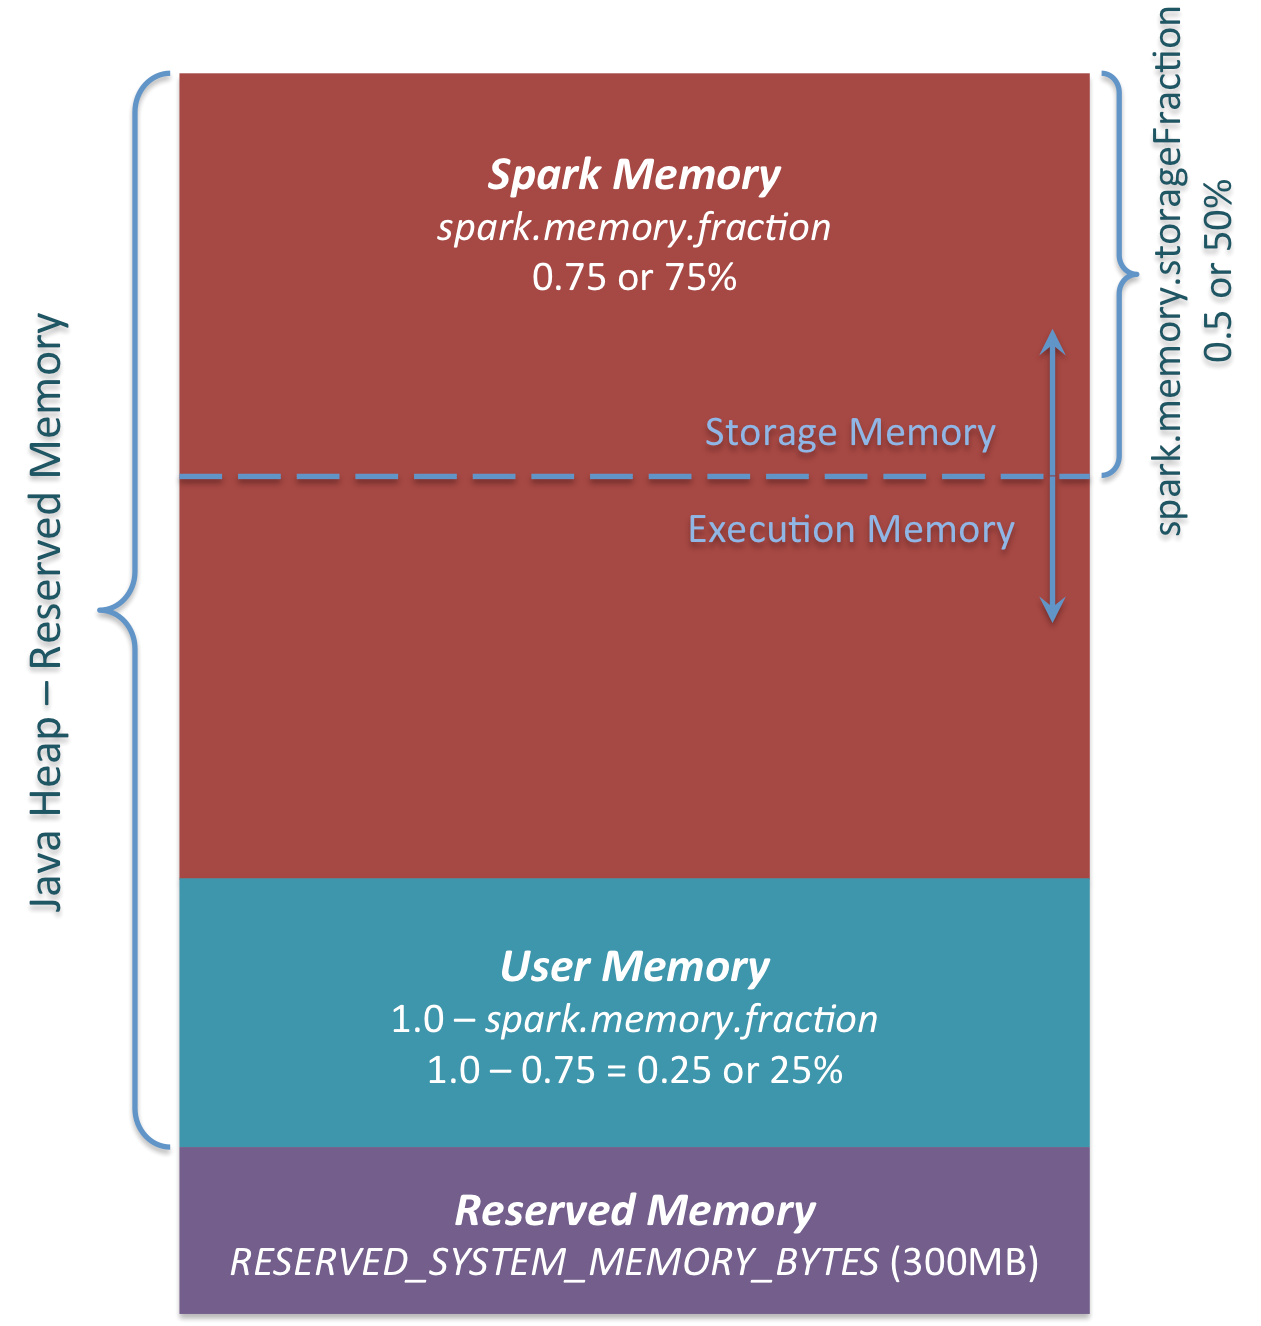
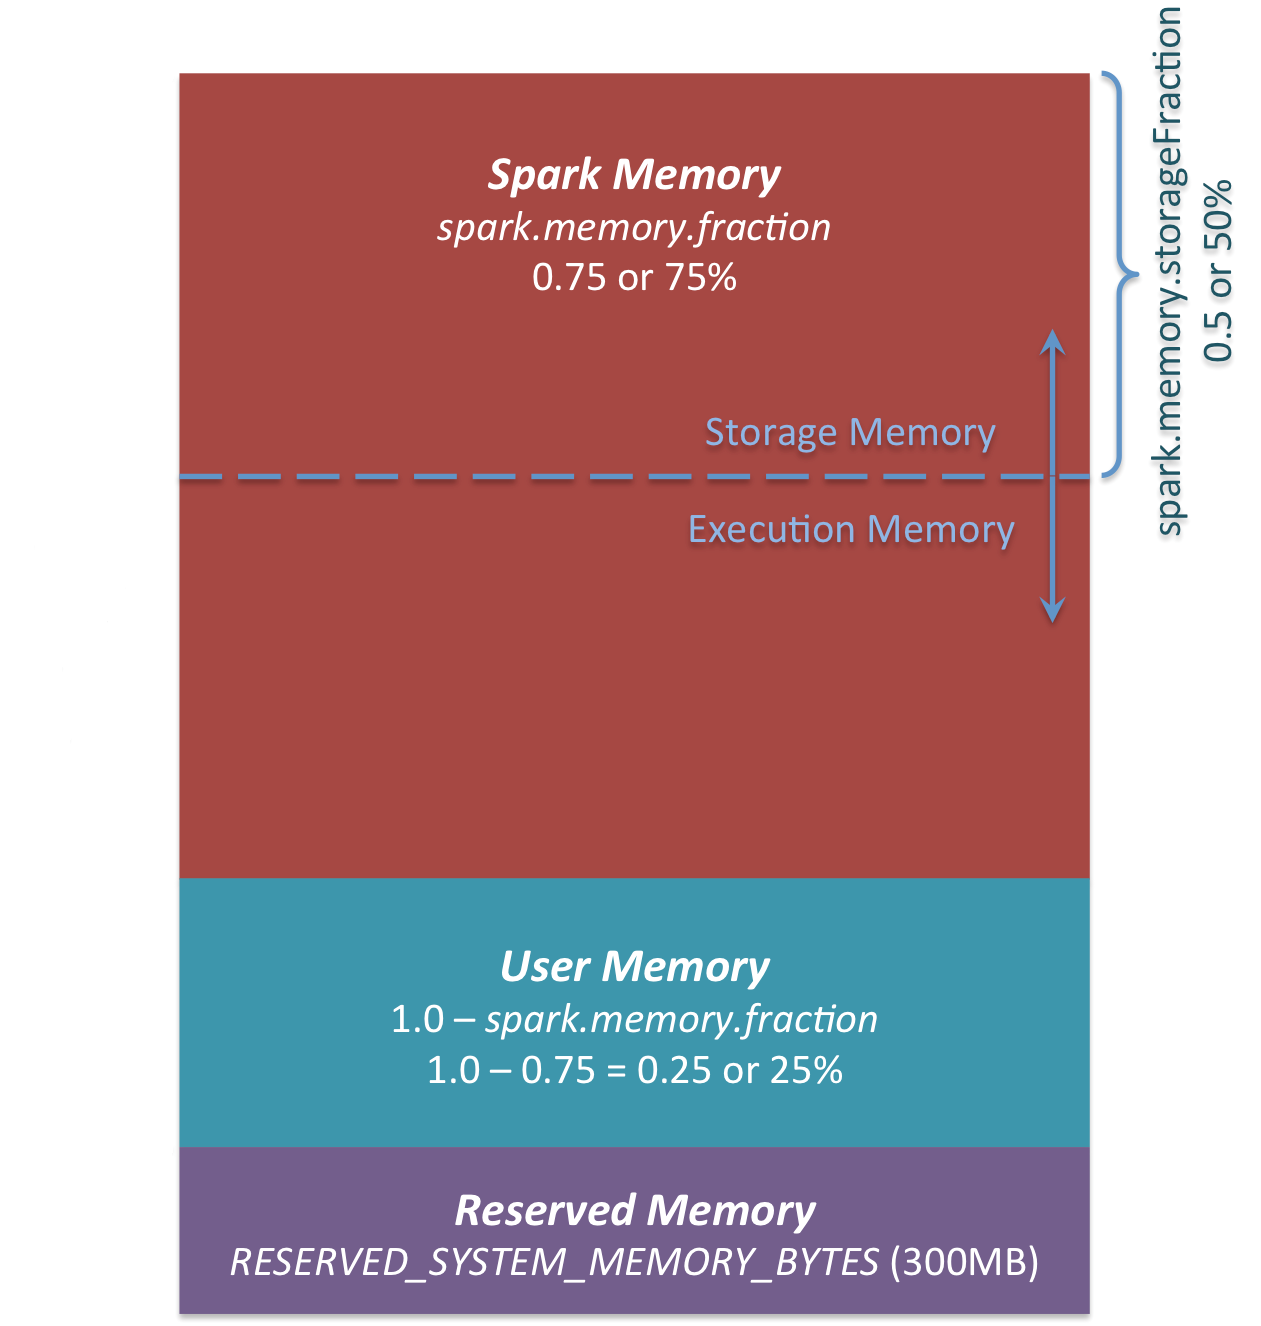
Memory Manager in Tungtsen

Changed region(s): [[0.0, 0.0618, 0.1237, 0.8658]]

diff --git a/analysis/memory_manager.md b/analysis/memory_manager.md
@@ -2,20 +2,298 @@
 
 Spark中的内存管理最近几个版本一直有变化。Spark1.6中将过去的内存管理全部放在了`StaticMemoryManager`中，其名字起得很好，因为过去的的内存
 分配确实是静态的(详情见[Spark Architecture][1])，即各个区块的大小是固定的。可以通过配置`spark.memory.useLegacyMode`为`true`来使用。自从1.6
-版本开始就着力推出新的内存管理，这是[Tungtsen][2]中重要的一个目标。实际上1.6只是一个过渡，其和2.0.0的内存管理还是有一定的区别。[1.6的内存管理
+版本开始就着力推出新的内存管理，这是[Tungtsen][2]中重要的一个目标。实际上1.6只是一个过渡，其和2.0.0的内存管理还是有一定的区别（在off-heap方面）。[1.6的内存管理
 见][3]。
 
-##UnifiedMemoryManager介绍
+##UnifiedMemoryManager Overview
 
-新的内存管理策略在有这个类进行负责，这里借用[Alexey Grishchenko分析Spark1.6的内存管理][3]的图来说明其整体的策略。
+新的内存管理策略在有这个类进行负责，这里借用[Alexey Grishchenko分析Spark1.6的内存管理][3]的图（有修改）来说明其整体的策略。
 
-![Spark内存管理][4]
+![Spark内存管理][Spark-Memory-Management-1.6.0]
 
-###Reserved Memory
+1. Reserved Memory：
+这部分空间大小是固定的（可以通过`spark.testing.reservedMemory`设置，需重新编译Spark），300MB。这意味着有300MB的内存不会用于Spark。这部分内存的目的是为了保证有
+空间来运行其他系统，并且也可以用于限制设置的内存大小。所以如果你有1GB的JVM，那么用于“运行”（概念稍有不同，稍后解释）和“存储”的内存就是_(1024MB - 300MB) * spark.memory.storageFraction_。
+此外，需要注意的是，Spark的Executor和Diver的内存大小至少要有_1.5 * Reserved Memory = 450MB_。否则就会提示通过`--driver-memory`或`--executor-memory`增加内存。
+2. User Memory：
+这部分空间是属于Spark管理的内存，其用于存储你自己的数据结构、Spark的内部元数据，以及对大而稀疏的数据规模的预测。令除去Reserved Memory之后
+的内存为`usableMemory`，那么这部分的内存大小就是_usableMemory * (1 - spark.memory.storageFraction)_。
+3. Spark Memory
+这部分内存的大小就是_usableMemory * spark.memory.storageFraction_。其共分为两部分一部分是Execution Memory和Storage Memory。虽然会设置`spark.memory.storageFraction`，
+但两者的边界并不是固定的，任何一部分内存都可以向另一部分去借内存。当然可以设置`spark.memory.offHeap.enabled`为`true`，
+并设置`spark.memory.offHeap.size`，即off-heap Memory的大小。这种配置下，在off-heap Memory上的Execution Memory和Storage Memory也一样遵循前文的策略。
 
-这部分空间大小是固定的，300MB。
+* Execution Memory表示的是用于shuffles、join、sorts和 aggregations的内存。Execution Memory当然也可以向Storage Memory借空闲内存。但是
+Execution Memory的内存__永远都不会__被腾出来用于Storage Memory存储，所以Storage Memory借不到内存的时候就会把这个块按照存储层级踢出去（踢到磁盘）。
 
+* Storage Memory表示用于persist（cache）、跨集群传递内部数据的内存，以及临时用于序列化数据“unroll”的内存。而且所有广播变量的数据
+都作为cached blocks（存储层级为`MEMORY_AND_DISK`）存储在这里。当这部分内存不足的时候，它可以去向Execution Memory申请
+__空闲__内存。但是当Execution Memory需要收回这部分内存的时候，要踢出部分cached blocks来满足Execution Memory的请求。
+
+##Spark Tungtsen的内存思路
+
+与C等直接面向内存的编程语言不同，Java业务逻辑操作内存是JVM堆内存，分配释放以及引用关系都由JVM进行管理，new返回的只是一个对象引用，而不是该对象在进程空间的绝对地址。但是由于堆内存的使用严重依赖JVM的GC器，对于大内存的使用，JavaER都想脱离JVM的管理，而自行和内存进行打交道，即堆外内存。
+
+目前Java提供了ByteBuffer.allocateDirect函数可以分配堆外内存，但是分配大小受MaxDirectMemorySize配置限制。分配堆外内存另外一个方法就是通过Unsafe的allocateMemory函数，相比前者，它完全脱离了JVM限制，与传统C中的malloc功能一致。这两个函数还有另外一个区别：后者函数返回是进程空间的实际内存地址，而前者被ByteBuffer进行包装。
+
+堆外内存使用高效，节约内存（基于字节，不需要存储繁琐的对象头等信息），堆内内存使用简单，但是对于Spark来说，很多地方会有大数组大内存的需求，内存高效是必须去追求的，它对整个程序运行性能影响极大，因此Spark也提供了堆外内存的支持，从而可以优化Spark运行性能。
+
+对于堆内存，对象的引用为对象在堆中“头指针”，熟悉对象在堆中组织方式以后（比如对象头大小），就可以通过引用+Offset偏移量的方式来操作对象的成员变量；对于堆外内存，我们直接拥有的就是指针，基于Offset可以直接内存操作。通过这种机制，Spark利用MemoryLocation，MemoryBlock来对堆内和堆外内存进行抽象，以LongArray等数据结构对外提供统一的内存入口。类似下图。
+
+![HashMap][new-memory-offheap]
+
+这种设计可以极大地提高数组、Map等操作的效率。Tungtsen中已经利用这种设计替换了之前的原生数据结构。
+
+##UnifiedMemoryManager源码分析
+
+首先分析其父类MemoryManager
+
+private[spark] abstract class MemoryManager(
+    conf: SparkConf,
+    numCores: Int,
+    onHeapStorageMemory: Long,
+    onHeapExecutionMemory: Long) extends Logging {
+
+  @GuardedBy("this")
+  protected val onHeapStorageMemoryPool = new StorageMemoryPool(this, MemoryMode.ON_HEAP)
+  @GuardedBy("this")
+  protected val offHeapStorageMemoryPool = new StorageMemoryPool(this, MemoryMode.OFF_HEAP)
+  @GuardedBy("this")
+  protected val onHeapExecutionMemoryPool = new ExecutionMemoryPool(this, MemoryMode.ON_HEAP)
+  @GuardedBy("this")
+  protected val offHeapExecutionMemoryPool = new ExecutionMemoryPool(this, MemoryMode.OFF_HEAP)
+  ...
+}
+
+上面列举出其最重要的4个成员变量，分别是on-heap和off-heap版本的StorageMemoryPool和ExecutionMemoryPool。
+
+***StorageMemoryPool
+
+先分析StorageMemoryPool。
+
+private[memory] class StorageMemoryPool(
+    lock: Object,
+    memoryMode: MemoryMode
+  ) extends MemoryPool(lock) with Logging {
+  private[this] var _memoryUsed: Long = 0L
+  private var _memoryStore: MemoryStore = _
+}
+
+`lock`的作用是同步对该变量的操作，同步是由MemoryManager来完成的。`memoryMode`指定了该内存池的属性，off-heap还是on-heap。
+然后就是重要的两个成员变量：`_memoryUsed`和`_memoryStore`。前者表示该部分已经使用的内存，后者就是该内存池对应的用于存储操作的接口（[Spark Block Manager管理][4]有介绍）。
+
+这里着重介绍`_memoryStore`，它的目的就是用于必要时将某些块踢到磁盘。它的调用点只有一个就是`acquireMemory`。如果当前的
+空闲内存不够的时候，就会调用`memoryStore.evictBlocksToFreeSpace`来踢cached blocks。这个函数主要是将满足条件的块踢出去，
+条件有两点：一是准备存储的块和被踢块的存储层级相同；而是一个块不能替换本RDD中的块。如果被选中的满足条件的块的总大小已经满足
+替换空间的要求，就停止查找，然后去调用`dropBlock`函数将对应BlockId的块踢出去，这个函数具体时间调用了`blockEvictionHandler`变量的
+`dropFromMemory`，而该函数就是在BlockManager中实现的（因为BlockManager是BlockEvictionHandler的子类）。该函数中首先会去查看这个块是否使用了`useDisk`这个属性，
+如果有就先将序列化后的数据写到磁盘上（已经序列化的就直接写到磁盘）。然后就是利用MemoryStore的`remove`函数释放对应块的存储空间
+并且通知更新块信息。下面看`remove`函数。中会通过MemoryManager的`releaseStorageMemory`释放空间（仅仅是改变`_memoryUsed`的大小），真正从物理上释放空间的操作。
+
+	//MemoryStore
+	def remove(blockId: BlockId): Boolean = memoryManager.synchronized {
+		val entry = entries.synchronized {
+		  entries.remove(blockId)
+		}
+		if (entry != null) {
+		  entry match {
+			case SerializedMemoryEntry(buffer, _, _) => buffer.dispose()
+			case _ =>
+		  }
+		  memoryManager.releaseStorageMemory(entry.size, entry.memoryMode)
+		  logDebug(s"Block $blockId of size ${entry.size} dropped " +
+			s"from memory (free ${maxMemory - blocksMemoryUsed})")
+		  true
+		} else {
+		  false
+		}
+	}
+
+其中会通过MemoryManager的`releaseStorageMemory`释放空间（仅仅是改变`_memoryUsed`的大小），真正从物理上释放空间的操作是
+`buffer.dispose()`，`buffer`是一个ChunkedByteBuffer类型的对象。ChunkedByteBuffer是可以看做是一组ByteBuffer，但每个ByteBuffer
+的offset必须为0，由于是只读的，所以这组ByteBuffer的数据只能通过copy来供调用者使用。
+
+	//ChunkedByteBuffer
+	def dispose(): Unit = {
+		if (!disposed) {
+		  chunks.foreach(StorageUtils.dispose)
+		  disposed = true
+		}
+	}
+	//StorageUtils
+	def dispose(buffer: ByteBuffer): Unit = {
+		if (buffer != null && buffer.isInstanceOf[MappedByteBuffer]) {
+		  logTrace(s"Unmapping $buffer")
+		  if (buffer.asInstanceOf[DirectBuffer].cleaner() != null) {
+			buffer.asInstanceOf[DirectBuffer].cleaner().clean()
+		  }
+		}
+	}
+	
+可以发现最终会调用Cleaner的`clean`方法来释放这部分空间（sun.misc）。不过至此我们还没有分析怎么向off-heap中写数据，实际上向off-heap中写数据
+只存在于MemoryStore的`putIteratorAsBytes`中，进一步往回找，发现只有在BlockManager的`doPutIterator`中hi调用此函数，而且该函数只会被
+BlockManager的`getOrElseUpdate`调用，也就是触发persist（cache）操作的时候。所以off-heap只会用于persist操作。
+
+***ExecutionMemoryPool
+
+接下来分析ExecutionMemoryPool，该类除了像StorageMemoryPool存储数据（只是用途不同），还提供了一组策略来保证每个任务都可以得到一部分
+合理的内存。
+
+假设有N个任务，它保证每个任务在溢出之前有至少1/2N的内存，至多1/N的内存，就是说每个任务的内存持有量是[1/N, 1/2N]。由于
+N是动态变化的，所以会一直跟踪活跃任务，重新在等待任务中计算1/2N和1/N。
+
+任务会向ExecutionMemoryPool竞争发起申请。针对为每个任务，ExecutionMemoryPool都记录了它们当前申请的内存大小，同时在申请过程中，为了保证task分配的内存总大小位于[1/2N,1/N]之间，
+如果可申请大小达不到1/2N，将会阻塞申请（让锁等待），等待其他task释放相应的内存。这部分代码在ExecutionMemoryPool的`acquireMemory`中。
+ExecutionMemoryPool中还有一个重要的方法就是`releaseMemory`，就是释放对应任务的指定大小的内存。这两个函数的代码很容易懂，所以不贴了。
+
+如果想全面理解ExecutionMemoryPool的原理，对Spark-Shuffle到深度理解是很有必要（见[Spark基础及Shuffle实现][5]和[Spark的shuffle机制分析][6]）。
+
+ExecutionMemoryPool，只是维护一个可用内存指标，接受指标的申请与回收，实际负责内存管理的是TaskMemoryManager，它的工作单位是Task，即一个Executor里面会有多个TaskMemoryManager。
+他们共同引用一个ExecutionMemoryPool，以竞争的方式申请可用的内存指标，申请指标的主体被表示为MemoryConsumer，即内存的消费者。在[Spark的shuffle机制分析][6]中提到“Deserialized sorting”
+和“serialized sorting”两种Sorter，其都属于MemoryConsumer。它核心的功能就是支持内存的申请以及在内存不够的时候,可以被动的进行Spill，从而释放自己占用的内存。因此两种Sort支持插入新的数据，
+也支持将已经Sorter数据Spill到磁盘。
+
+具体来说，是每个任务有一个TaskMemoryManager变量，对于ShuffleMapTask来说，有ShuffleWriter，其中UnsafeShuffleWriter和SortShuffleWriter，
+这二者都会包含ExternalSorter类型变量`sorter`，写数据的时候会调用该变量的`insertRecordIntoSorter`方法，然后调用`insertRecord`，
+该函数中会判断是否需要spill（没有足够内存用于该任务），如果是就调用MemoryConsumer的`spill`方法将一些数据spill到到磁盘来释放内存。
+
+了解了Shuffle与ExecutionMemoryPool的关系之后，现在分析一下TaskMemoryManager。
+
+****TaskMemoryManager
+
+这个类很复杂，其中大部分是将off-heap地址转换成64-bit的long型。在off-heap模式下，内存可以直接用64-bit的long值处理。
+在on-heap模式下，内存可以通过对象引用和一个64-bit的long值的offset来处理（最初想法）。当想存储其他数据结构中包含的数据结构指针时，
+例如hashmap或已排序buffer，那么这种方式就会有问题，因为地址完全可以大于这个范围。所以对于on-heap模式，使用64-bit中的高13位来存储页好，低51位来存储页内
+偏移量（offset）。页号被存储在TaskMemoryManager的页表数组中。所以允许存储_2 ^ 13 = 8192_页，页大小受限于long[]数组（最大2^31），
+所以可以处理_8192 * 2^31 * 8 bytes_的数据，16TB内存。
+
+分析TaskMemoryManager的页表数组`pageTable`，MemoryBlock[]数组，先来分析MemoryBlock和MemoryLocation。
+
+	public class MemoryLocation {
+	  @Nullable
+	  Object obj;
+	  long offset;
+	}
+	public class MemoryBlock extends MemoryLocation {
+
+	  private final long length;
+
+	  public int pageNumber = -1;
+
+	  public static MemoryBlock fromLongArray(final long[] array) {
+		return new MemoryBlock(array, Platform.LONG_ARRAY_OFFSET, array.length * 8L);
+	  }
+
+	  public void fill(byte value) {
+		Platform.setMemory(obj, offset, length, value);
+	  }
+	}
+	
+MemoryLocation表示内存位置（on-heap模式），只有两个成员变量，就是对象引用和offset。MemoryBlock（省略了构造函数）是一块连续的内存，从MemoryLocation位置
+开始，长度为`length`。其还包含该段内存的页号。由`fromLongArray`可以了解到如何将long[]数组转化为MemoryBlock，Platform.LONG_ARRAY_OFFSET
+表示了数组的起始位置（因为Java对象和C++不同，会有头信息），数组所存数据总长度就是_个数 * 64bit_。填充这块内存的操作类似于C语言。
+
+下面来看一些有意思的成员变量。`allocatedPages`，用一个BitSet来表示空闲页（为什么用BitSet，我想应该是，首先页号是连续的，所以BitSet不会造成太大的空间浪费，其次就是BitSet
+查询插入很快）。`tungstenMemoryMode`就是用于判断off-heap和on-heap，因为二者的内存寻址不同。`consumers`就是前面提到的Sorter，但是这里为什么是一个HashSet，每个任务不应该只有一个么？
+其实这里的`consumers`并不是指这个TaskMemoryManager对应的`consumers`，而是向其申请内存的`consumers`。`acquiredButNotUsed`表示申请了但没有使用的的内存。
+
+来关注几个比较重要的方法。
+
+	//TaskMemoryManager
+	public long acquireExecutionMemory(long required, MemoryConsumer consumer) {
+		...
+		MemoryMode mode = consumer.getMode();
+
+		synchronized (this) {
+		  long got = memoryManager.acquireExecutionMemory(required, taskAttemptId, mode);
+
+		  if (got < required) {
+			// Call spill() on other consumers to release memory
+			for (MemoryConsumer c: consumers) {
+			  if (c != consumer && c.getUsed() > 0 && c.getMode() == mode) {
+				try {
+				  long released = c.spill(required - got, consumer);
+				  if (released > 0) {
+					...
+					got += memoryManager.acquireExecutionMemory(required - got, taskAttemptId, mode);
+					if (got >= required) {
+					  break;
+					}
+				  }
+				} catch (IOException e) {
+				  ...
+				}
+			  }
+			}
+		  }
+
+		  // call spill() on itself
+		  if (got < required) {
+			try {
+			  long released = consumer.spill(required - got, consumer);
+			  if (released > 0) {
+				...
+				got += memoryManager.acquireExecutionMemory(required - got, taskAttemptId, mode);
+			  }
+			} catch (IOException e) {
+			  ...
+			}
+		  }
+
+		  consumers.add(consumer);
+		  return got;
+		}
+	}
+	public MemoryBlock allocatePage(long size, MemoryConsumer consumer) {
+		...
+		long acquired = acquireExecutionMemory(size, consumer);
+		if (acquired <= 0) {
+		  return null;
+		}
+
+		final int pageNumber;
+		synchronized (this) {
+		  pageNumber = allocatedPages.nextClearBit(0);
+		  if (pageNumber >= PAGE_TABLE_SIZE) {
+			releaseExecutionMemory(acquired, consumer);
+		  }
+		  allocatedPages.set(pageNumber);
+		}
+		MemoryBlock page = null;
+		try {
+		  page = memoryManager.tungstenMemoryAllocator().allocate(acquired);
+		} catch (OutOfMemoryError e) {
+		  ...
+		}
+		page.pageNumber = pageNumber;
+		pageTable[pageNumber] = page;
+
+		return page;
+	}
+
+为了方便理解，删去大量细节代码。首先来看`allocatePage`，MemoryConsumer申请一定大小的空闲页（申请大小不能大于最大页长）。
+其实还是调用`acquireExecutionMemory`来申请特定大小内存，当然页号也不能超出最大页号。关于Allocator在[Spark Block Manager管理][4]中
+略微提到。针对on-heap和off-heap有不同的Allocator，其实这里只是利用Allocator进行生成页的信息（页号、起始位置和长度）。
+
+然后再来看`acquireExecutionMemory`，首先就是调用`MemoryManager`的`acquireExecutionMemory`来申请内存，这个函数之前没讲过，但是和
+`acquireStorageMemory`总体类似。但加入申请到的内存不能满足需求，就需要将其他借过内存的`consumer`的内存数据spill到磁盘。那么释放出来的空间就可以供这个
+`consumer`使用，如果这种情况还不够使用，那就只能spill本任务的内存数据到磁盘了（一种妥协策略，就是尽量满足当前使用，假设该任务之前申请到的内存存得已经是冷数据了）。
+最后就是把这个`consumer`加入列表，说明其曾经向本任务请求过内存，必要的时候向他们**讨还**内存（谁找我借的，我就找谁要）。
+
+释放页和释放内存的操作类似（像是C语言或者C++风格）。
+
+内存已经分配了，那怎么想这块内存中写数据呢？可以去看Spark自己实现的LongArray（org.apache.spark.unsafe.array），构造函数就是传入一个MemoryBlock，
+也就是一页，因为页中有偏移量，长度，所以可以按序写入（利用Platform的写操作），并且不会越界。
+
+剩下的就是`encodePageNumberAndOffset`、`decodePageNumber`、`decodeOffset`，这几个很容易理解。`encodePageNumberAndOffset`是针对on-heap和off-heap中的
+页和页内偏移进行编码的。`getPage`是获得页的引用（只针对on-heap有效，因为off-heap并没有页引用）。这些函数在UnsafeExternalSorter和新数据结构中有大量应用，
+这里不再赘述。
+	
 [1]:https://0x0fff.com/spark-architecture/
 [2]:https://databricks.com/blog/2015/04/28/project-tungsten-bringing-spark-closer-to-bare-metal.html
 [3]:https://0x0fff.com/spark-memory-management/
-[4]:../pic/Spark-Memory-Management-1.6.0.png
+[4]:https://github.com/summerDG/spark-code-ananlysis/blob/master/analysis/block_manager.md
+[5]:https://github.com/summerDG/spark-code-ananlysis/blob/master/analysis/spark_shuffle.md
+[6]:https://github.com/summerDG/spark-code-ananlysis/blob/master/analysis/spark_sort_shuffle.md
+[Spark-Memory-Management-1.6.0]:../pic/Spark-Memory-Management-1.6.0.png
+[new-memory-offheap]:../pic/new-memory-offheap.png
